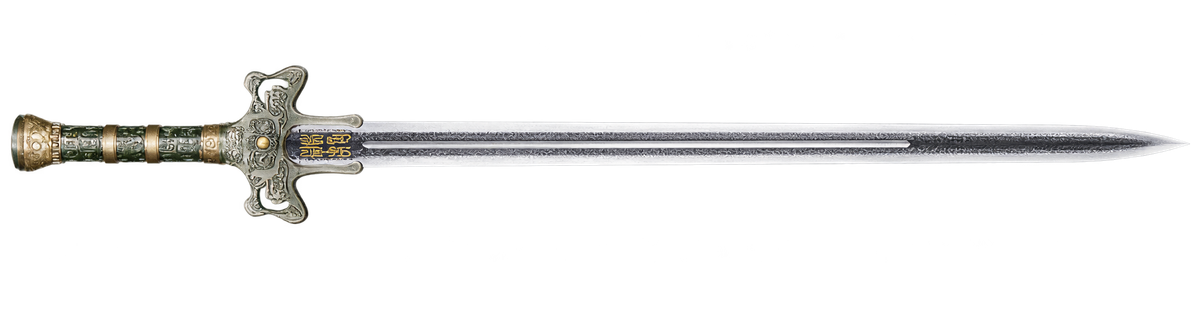
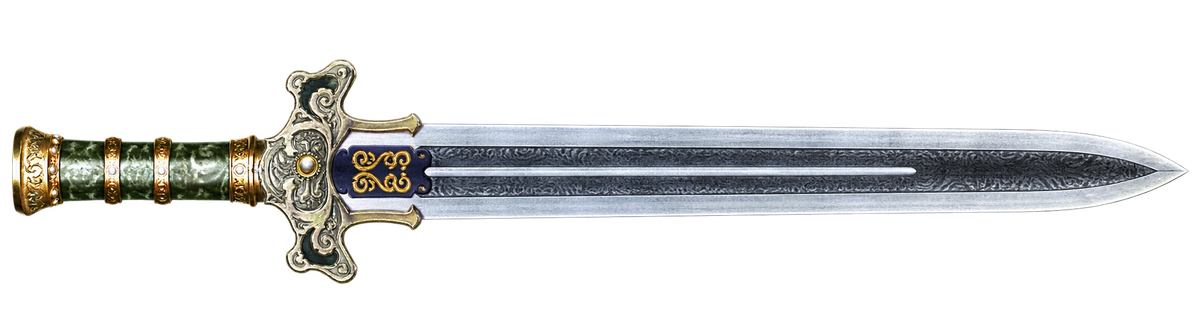
fix: fit navigation labels within sword blade

Changed region(s): [[0.0, 0.1698, 0.9867, 0.8774]]

diff --git a/css/style.css b/css/style.css
@@ -76,15 +76,15 @@ header.top {
   .tabs { overflow: visible; }
   .tab.active {
     width: calc(100% + 8px);
-    min-height: 54px;
-    padding: 12px 7% 12px 31%;
+    min-height: 60px;
+    padding: 15px 7% 15px 31%;
     border-color: transparent;
     border-radius: 0;
     background-color: transparent;
     background-image: url("../images/nav-sword.png");
     background-repeat: no-repeat;
     background-position: center;
-    background-size: 100% auto;
+    background-size: 100% 60px;
     color: #f0b92f;
     text-align: center;
     text-shadow: 0 1px 2px rgba(0, 0, 0, .95), 0 0 3px #000;
@@ -92,8 +92,8 @@ header.top {
   }
 }
 @media (min-width: 1025px) {
-  header.top { margin-left: 234px; }
-  .app-shell { grid-template-columns: 210px minmax(0, 1fr); }
+  header.top { margin-left: 254px; }
+  .app-shell { grid-template-columns: 230px minmax(0, 1fr); }
   .tabs { gap: 10px; }
   .tab {
     min-height: 50px;
@@ -103,8 +103,9 @@ header.top {
   }
   .tab.active {
     width: calc(100% + 12px);
-    min-height: 68px;
-    padding: 16px 8% 16px 32%;
+    min-height: 78px;
+    padding: 20px 8% 20px 32%;
+    background-size: 100% 78px;
   }
 }
 .summary-card {
